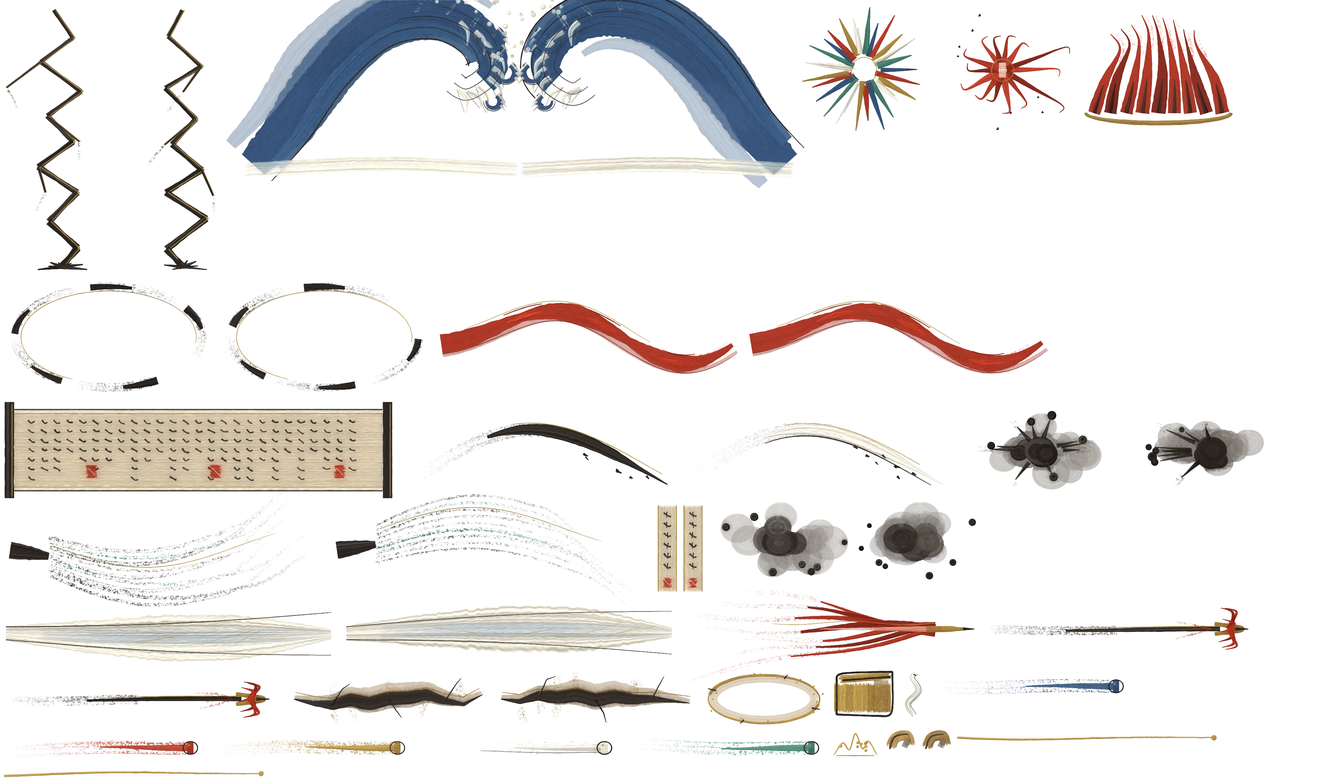
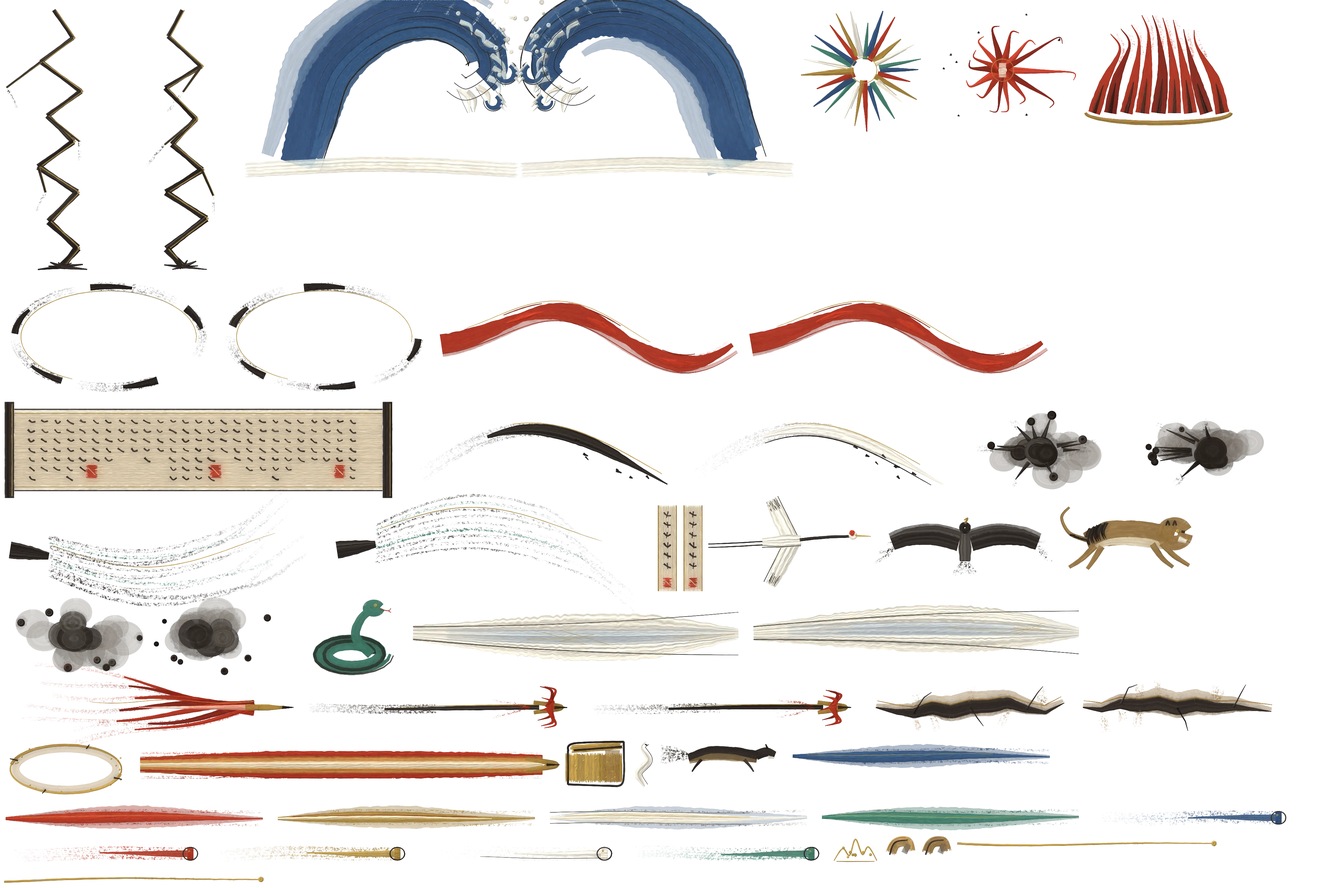
Muye: the ten true-form feats repainted
Mount Tai for 黄飞虎, the investiture list for 姜子牙, the turning wheel of
eight weapons for 哪吒, six ink beasts for 杨戬, the lance of light for 黄天化,
five beams for 邓婵玉, a chasm for 土行孙 and a wave for 龙吉, each with the
general in view and inside the coverage budget.

diff --git a/world/src/muye2/art/fx/gl/gods.js b/world/src/muye2/art/fx/gl/gods.js
@@ -32,6 +32,8 @@ export function createGods(ctx, W = createWonders(), { ink = null, kick = () => 
   const sheet = (n) => (n.charCodeAt(0) === 103 ? GW : W0);
   // 泰山 (gen/tai.gen.mjs): a picture of its own, painted with the field's ink-wash engine; its foot sits at TAI_FOOT of its height
   let TAI = null; const TAI_FOOT = 868 / 896;
+  // 地裂 (gen/chasm.gen.mjs): the earth opened, painted with the same engine; centred, 520 units across at 1.4 px a unit
+  let CHASM = null; fetch(new URL('../baked/gchasm.webp', import.meta.url).href).then((r) => r.blob()).then((b) => createImageBitmap(b)).then((bm) => { CHASM = bm; if (ctx.prewarm) ctx.prewarm(bm); warm.push(bm); }).catch((e) => console.warn('gods: 地裂 did not load', e));
   fetch(new URL('../baked/gtai.webp', import.meta.url).href).then((r) => r.blob()).then((b) => createImageBitmap(b)).then((bm) => { TAI = bm; if (ctx.prewarm) ctx.prewarm(bm); warm.push(bm); }).catch((e) => console.warn('gods: 泰山 did not load', e));
   W = { draw: (c, n, ...r) => sheet(n).draw(c, n, ...r), cell: (n) => sheet(n).cell(n), get ready() { return W0.ready && GW.ready; } };
   let clock = 0, G = null, FX = null, FXload = null;
@@ -112,8 +114,8 @@ export function createGods(ctx, W = createWonders(), { ink = null, kick = () => 
       for (let j = 0; j < 12; j++) { const ang = (j / 12) * TAU + 0.3, d = 300 * (1 - ease(q)) * V.z; W.draw(c, `wray_${j % 2}`, X + Math.cos(ang) * d, Y + Math.sin(ang) * d * 0.8, ang + Math.PI / 2, 0.3 * V.z, 0.35 * V.z, Math.sin(Math.PI * q) * veil(V, X, Y)); } } }
   // 土行孙: no image, the earth itself opens round him and stands up
   function earthStage(c, V, o, t, gx, gy, a) { const z = V.z, R = 260, open = ease(clamp(t / 0.4)), close = clamp((t - T_HOLD) / (T_END - T_HOLD));
-    for (let j = 0; j < 6; j++) { const b = (j / 6) * TAU + 0.2, X0 = V.sx(gx + Math.cos(b) * 40), Y0 = V.sy(gy + Math.sin(b) * 40), X1 = V.sx(gx + Math.cos(b) * R), Y1 = V.sy(gy + Math.sin(b) * R); along(c, `wcrack_${j % 2}`, X0, Y0, X1, Y1, 0.5 * z, a, 0, open); }
-    W.draw(c, `wscorch_${o.v || 0}`, V.sx(gx), V.sy(gy), 0, (R / 70) * z * open, (R / 90) * z * open, a * 0.8);
+    if (CHASM) { const w = 520 * (R / 158) * z * (0.5 + 0.5 * open) * (1 - 0.4 * close), h = w * CHASM.height / CHASM.width, X = V.sx(gx), Y = V.sy(gy) + 10 * z; ctx.setTransform(1, 0, 0, 1, X - w / 2, Y - h / 2); ctx.globalAlpha = a * (1 - close) * Math.min(1, open * 2); ctx.drawImage(CHASM, 0, 0, CHASM.width, CHASM.height, 0, 0, w, h); ctx.setTransform(1, 0, 0, 1, 0, 0); ctx.globalAlpha = 1; }      // the earth opens round him (gen/chasm.gen.mjs)
+
     for (let j = 0; j < 8; j++) { const b = (j / 8) * TAU, s = clamp((t - (j % 3) * 0.06) / 1.2), X = V.sx(gx + Math.cos(b) * R * 0.75), Y = V.sy(gy + Math.sin(b) * R * 0.75) - 40 * s * z;
       if (s > 0 && s < 1) W.draw(c, `wdust_${j % 2}`, X, Y, j, (0.8 + 1.4 * s) * z, (0.7 + 1 * s) * z, a * (1 - s) * (1 - close)); } }
 
@@ -121,8 +123,8 @@ export function createGods(ctx, W = createWonders(), { ink = null, kick = () => 
   // Each in three beats: GATHER (his own pose and a brief build of strokes at him, about 0.2 s), STRIKE (the god's blow
   // laid on the foes at full size, a held frame and a shock when it lands), TRACE (pools, rifts, rings left on the ground
   // under the figures, fading over a second and more). What stands over the figures is the strike alone, and only briefly.
-  const STRIKE = { arc: 0.34, hound: 0.22, line: 0.24, bindOne: 0.2, cone: 0.22, charge: 0.3, command: 0.74, snort: 0.2, vase: 0.5, nail: 0.18 };
-  const LIFE = { arc: 2.4, hound: 2.2, line: 2.2, bindOne: 2.6, cone: 1.8, charge: 2.4, command: 2.4, snort: 1.8, vase: 2.4, nail: 2.2 };
+  const STRIKE = { arc: 0.34, hound: 0.24, line: 0.24, bindOne: 0.2, cone: 0.22, charge: 0.3, command: 0.74, snort: 0.2, vase: 0.5, nail: 0.18 };
+  const LIFE = { arc: 2.4, hound: 2.4, line: 2.2, bindOne: 2.6, cone: 1.8, charge: 2.4, command: 2.4, snort: 1.8, vase: 2.4, nail: 2.2 };
   const NEZHA8 = ['gspear_0', 'gsword_0', 'wring', 'gbrick', 'gspear_1', 'gsword_1', 'gsilk', 'gcage'];
   function picks(x, y, R, n, cone = null) { const fs = (G && G.foes) || [], out = [];
     for (const f of fs) { if (f.state === 'dead') continue; const dx = f.x - x, dy = f.y - y, d = Math.hypot(dx, dy); if (d > R) continue;
@@ -137,8 +139,11 @@ export function createGods(ctx, W = createWonders(), { ink = null, kick = () => 
     if (o.shape === 'arc') { const fs = (G && G.foes) || [], h = G && G.hero; o.picks = [];      // a wheel round him: in each of eight directions the nearest foe within 300, else the ground 240 out that way
       for (let k = 0; k < 8; k++) { const b = ((k + 0.5) / 8) * TAU; let best = null, bd = 1e9; for (const f of fs) { if (f.state === 'dead') continue; const dx = f.x - gx, dy = f.y - gy, d = Math.hypot(dx, dy); if (d > 300 || d < 60) continue; if (h && Math.hypot(f.x - h.x, f.y - h.y) < 110) continue; let da = Math.atan2(dy, dx) - b; da = Math.atan2(Math.sin(da), Math.cos(da)); if (Math.abs(da) > TAU / 16) continue; if (d < bd) { bd = d; best = f; } }
         o.picks.push(best ? { x: best.x, y: best.y, id: best.id } : { x: gx + Math.cos(b) * 240, y: gy + Math.sin(b) * 240 }); } }
-    if (o.shape === 'hound') { o.picks = (o.targets || []).slice(); for (const p of spread(gx, gy, 560, 6)) if (o.picks.length < 6) o.picks.push(p); }
+    if (o.shape === 'hound') o.picks = spread(gx, gy, 600, 6);      // six changes out to six directions round him
     if (o.shape === 'cone') o.picks = picks(gx, gy, o.radius || 440, 5, [o.dir || 0, ((o.angle || 130) * Math.PI) / 360]);
+    if (o.shape === 'vase') { const pr = (o.targets || []).find((p) => p.pour && (!G || !G.hero || Math.hypot(p.x - G.hero.x, p.y - G.hero.y) >= 380)), fs = (G && G.foes) || [], h = G && G.hero; let best = pr || null, bn = -1;
+      if (!best) for (const f of fs) { if (f.state === 'dead' || Math.hypot(f.x - gx, f.y - gy) > 760 || (h && (Math.hypot(f.x - h.x, f.y - h.y) < 380 || Math.hypot(f.x - h.x, f.y - h.y) > 600))) continue; let n = 0; for (const g2 of fs) if (g2.state !== 'dead' && Math.abs(g2.x - f.x) < 110 && Math.abs(g2.y - f.y) < 90) n++; if (n > bn) { bn = n; best = f; } }
+      o.wave = best ? { x: best.x, y: best.y } : null; }      // the great wave: the first group it pours on, else the thickest group in reach, away from the hero
     if (o.shape === 'command') { const n = o.nail; o.at2 = n ? { x: n.x, y: n.y, id: n.id } : (picks(gx, gy, 600, 1)[0] || { x: gx + 300, y: gy }); } }
   const at = (p) => { const f = foeOf(p.id); return f && f.state !== 'dead' ? f : p; };
   // the held blow: once, as the strike lands
@@ -159,33 +164,37 @@ export function createGods(ctx, W = createWonders(), { ink = null, kick = () => 
       const gather = clamp(t / T0), [GX, GY] = P(gx, gy, 60);
       GCL = ground ? null : [GX, GY - 10 * z, z];
       switch (o.shape) {
-        case 'arc': {          // 哪吒 三头八臂: the eight weapons come into his eight hands one by one, turning round him; then in the same
-          // turning order each goes out to a foe in its own direction: two fire-tipped spears, the two swords, the ring, the gold
-          // brick, the sash and the fire cage. He stays in the middle of it, clear.
-          const ps = o.picks.length ? o.picks : [{ x: gx + 200, y: gy }], RR = 150 * z, ringAt = (k, tt) => { const b = ((k + 0.5) / 8) * TAU + 0.5 * clamp(tt / 0.6); return [GX + Math.cos(b) * RR, GY - 10 * z + Math.sin(b) * RR * 0.72, b]; };
-          if (ground) { land(o, t, 10); for (let k = 0; k < 8; k++) { const p = at(ps[k % ps.length]); shockAt(c, V, p.x, p.y, T0 + k * 0.05 + 0.12, t, k === 7 ? 0.9 : 0.55); } break; }
-          for (let k = 0; k < 8; k++) { const n = NEZHA8[k], t0 = (k / 8) * T0 * 0.85, tl = T0 + k * 0.05; if (t < t0) continue;
-            const [RX, RY, b] = ringAt(k, t), shown = clamp((t - t0) / 0.06);
-            if (t < tl) {      // held in his hand: the weapon small, pointing out from him
-              const icon = n === 'wring' ? ['wringt_0', 0, 1, 0.5] : n === 'gsilk' ? ['gsilk_0', 0.55, 1, 0.45] : n === 'gcage' ? ['gcage', 0, 1, 0.24] : n === 'gbrick' ? ['gbrick', 0, 1, 0.4] : n.startsWith('gsword') ? [n, 0.4, 1, 0.42] : [n, 0.5, 1, 0.45];
-              W.draw(c, icon[0], RX, RY, n === 'gcage' || n === 'gbrick' ? 0 : b, icon[3] * z, icon[3] * z, shown * veil(V, RX, RY), icon[1], icon[2]); continue; }      // (in his own hands: not thinned round him)
-            const p = at(ps[k % ps.length]), tk = t - tl, q = clamp(tk / 0.12), out = 1 - clamp((tk - 0.5) / 0.25); if (out <= 0) continue;
-            const [X1, Y1] = P(p.x, p.y, 40), ang = Math.atan2(Y1 - RY, X1 - RX), len = Math.hypot(X1 - RX, Y1 - RY);
-            if (n === 'gspear_0' || n === 'gspear_1') { const C = W.cell(n), k1 = (len + 40 * z) / C[7]; D(c, n, RX, RY, ang, k1, 0.9 * z, out * lineVeil(V, RX, RY, X1, Y1), 0, q); }
-            else if (n === 'gsword_0' || n === 'gsword_1') D(c, n, X1 - Math.cos(ang) * 260 * z, Y1 - Math.sin(ang) * 260 * z + 90 * z, ang, 0.85 * z, 0.85 * z, out * veil(V, X1, Y1), Math.max(0, q - 0.5), q);
-            else if (n === 'wring') { const X = RX + (X1 - RX) * q, Y = RY + (Y1 - RY) * q; D(c, 'wring_0', X, Y, tk * 20, 0.7 * z, 0.7 * z, out * veil(V, X, Y)); if (q < 1) { const C = W.cell('wring_trail_0'), L2 = Math.hypot(X - RX, Y - RY); if (C && L2 > 4) D(c, 'wring_trail_0', X, Y, ang + Math.PI, L2 / C[7], 0.9 * z, out * veil(V, X, Y)); } }
-            else if (n === 'gsilk') { const C = W.cell('gsilk_0'), k1 = len / C[7]; D(c, 'gsilk_0', RX, RY, ang, k1, 0.8 * z, out * lineVeil(V, RX, RY, X1, Y1), 0, q); }
-            else if (n === 'gbrick') { const Y = Y1 - 380 * z * (1 - q * q); D(c, 'gbrick', X1, Y + 30 * z, 0.1, 0.5 * z, 0.5 * z, out * veil(V, X1, Y)); }
-            else if (n === 'gcage') { const s = clamp(tk / 0.1), up = 1 - clamp((tk - 0.2) / 0.35); D(c, 'gcage', X1, Y1 + 50 * z, 0, 0.6 * z, 0.6 * z * s, Math.min(out + 0.4, 1) * up * boxVeil(V, X1 - 120 * z, Y1 - 120 * z * s, X1 + 120 * z, Y1 + 50 * z)); } }
+        case 'arc': {          // 哪吒 三头八臂: one composed turn. The eight weapons come into his hands round him; the wheel they make opens
+          // out over the foes and turns once, the sash a red ring through them, fire dragged behind each; it lands, and closes back.
+          const WR = 230, open = ease(clamp((t - T0) / 0.14)), close = clamp((t - T0 - 0.7) / 0.25), spin = 1.2 * ease(clamp((t - T0) / 0.5)), r = (60 + (WR - 60) * open) * (1 - 0.8 * close);
+          const wAt = (k, extra = 0) => { const b = ((k + 0.5) / 8) * TAU + spin + extra; return [gx + Math.cos(b) * r, gy + Math.sin(b) * r, b]; };
+          if (ground) { land(o, t, 12);
+            // the sash: a red ring through the eight weapons, drawn under the figures, laid as the wheel opens
+            if (t > T0 - 0.05 && close < 1) ribbon(c, 'gsilk_0', (q) => P(gx + Math.cos(q * TAU + spin) * r, gy + Math.sin(q * TAU + spin) * r, 30), 0.55 * z, (1 - close) * Math.min(1, (t - T0 + 0.05) / 0.1), 0, 1, 24, null);
+            for (let k = 0; k < 8; k++) { const [x, y] = wAt(k); if (t > T0 + 0.5 && !o['s' + k]) o['s' + k] = [x, y]; if (o['s' + k]) shockAt(c, V, o['s' + k][0], o['s' + k][1], T0 + 0.5, t, 0.65); }
+            break; }
+          for (let k = 0; k < 8; k++) { const n = NEZHA8[k], t0 = (k / 8) * T0 * 0.85; if (t < t0) continue;
+            const shown = clamp((t - t0) / 0.06), [x, y, b] = wAt(k), [X, Y] = P(x, y, 50), big = t < T0 ? 0.32 : 0.32 + 0.3 * open * (1 - close), a = shown * (1 - close), rot = b + Math.PI / 2;
+            // fire dragged behind each weapon as the wheel turns
+            if (t > T0 && close < 1) ribbon(c, 'wfanfire_0', (q) => { const [x2, y2] = wAt(k, -0.5 * (1 - q)); return P(x2, y2, 50); }, 0.3 * z, 0.5 * (1 - close) * open, 0, 1, 6, V);
+            if (n === 'wring') W.draw(c, 'wringt_0', X, Y, t * 8, big * 1.4 * z, big * 1.4 * z, a * veil(V, X, Y));
+            else if (n === 'gcage') W.draw(c, 'gcage', X, Y + 30 * z, 0, big * 0.6 * z, big * 0.6 * z, a * veil(V, X, Y));
+            else if (n === 'gbrick') W.draw(c, 'gbrick', X, Y + 20 * z, rot * 0.1, big * 0.9 * z, big * 0.9 * z, a * veil(V, X, Y));
+            else if (n === 'gsilk') W.draw(c, 'gsilk_0', X, Y, rot, big * 0.6 * z, big * 0.8 * z, a * veil(V, X, Y), 0.4, 1);
+            else W.draw(c, n, X - Math.cos(b) * 60 * big * z, Y - Math.sin(b) * 40 * big * z, b, big * 0.7 * z, big * 0.9 * z, a * veil(V, X, Y), n.startsWith('gsword') ? 0.3 : 0.45, 1); }
           break; }
-        case 'hound': {        // 杨戬 七十二变: a flung splash of ink breaks into six hounds; each bite pools
-          const ps = o.picks.length ? o.picks : [{ x: gx + 300, y: gy }];
-          if (ground) { land(o, t, 7); const s = clamp(t / 0.18); D(c, `gsplash_${o.v}`, V.sx(gx), V.sy(gy), 0, 0.7 * z * s, 0.7 * z * s * V.KY / 0.55, 1 - clamp((t - 0.3) / 0.6));
-            for (let k = 0; k < 6; k++) { const p = at(ps[k % ps.length]), tk = t - T0 - k * 0.04, q = clamp(tk / 0.3); if (tk < 0) continue; const [X0, Y0] = P(gx, gy), [X1, Y1] = P(p.x, p.y);
-              along(c, `wtoll_${k % 2}`, X0, Y0, X1, Y1, 1.6 * z, 0.7 * (1 - clamp((tk - 0.4) / 1.2)), Math.max(0, q - 0.5), q, null); shockAt(c, V, p.x, p.y, T0 + k * 0.04 + 0.3, t, 0.8); } break; }
-          for (let k = 0; k < 6; k++) { const p = at(ps[k % ps.length]), tk = t - T0 - k * 0.04, q = clamp(tk / 0.3); if (tk < 0 || q >= 1) continue;
-            const x = gx + (p.x - gx) * ease(q), y = gy + (p.y - gy) * ease(q), [X, Y] = P(x, y, 20 + 60 * Math.sin(Math.PI * q)), dir = p.x < gx ? -1 : 1;
-            D(c, `whound_${k % 2}`, X, Y, Math.atan2((p.y - gy) * V.KY, Math.abs(p.x - gx)) * 0.4 * dir, dir * 1.05 * z, 1.05 * z, Math.min(1, tk / 0.05) * veil(V, X, Y)); }
+        case 'hound': {        // 杨戬 七十二变: six changes: a hound, a tiger, a hawk, a marten, a crane and a serpent leap out of him to six
+          // foes in a few wet strokes each, strike, and leap back into him
+          const ps = o.picks.length ? o.picks : [{ x: gx + 300, y: gy }], SIX = ['whound_0', 'gtiger', 'ghawk', 'gmarten', 'gcrane', 'gserpent'], FLY = { ghawk: 1, gcrane: 1 };
+          if (ground) { land(o, t, 8); const s = clamp(t / 0.18); D(c, `gsplash_${o.v}`, V.sx(gx), V.sy(gy), 0, 0.6 * z * s, 0.6 * z * s * V.KY / 0.55, 1 - clamp((t - 0.3) / 0.6));
+            for (let k = 0; k < 6; k++) { const p = at(ps[k % ps.length]); shockAt(c, V, p.x, p.y, T0 + 0.3 + k * 0.03, t, 0.7); } break; }
+          for (let k = 0; k < 6; k++) { const n = SIX[k], p = at(ps[k % ps.length]), tk = t - k * 0.03, b = (k / 6) * TAU;
+            // out of him (0 to T0), the leap (T0 to T0 + 0.3), the strike held (to + 0.5), and back into him (+ 0.5 to + 0.85)
+            let x, y, lift, sc, a, dir;
+            if (tk < T0) { const q = ease(clamp(tk / T0)); x = gx + Math.cos(b) * 70 * q; y = gy + Math.sin(b) * 45 * q; lift = 70 + 40 * q; sc = 0.25 + 0.3 * q; a = q; dir = Math.cos(b) < 0 ? -1 : 1; }
+            else if (tk < T0 + 0.5) { const q = ease(clamp((tk - T0) / 0.3)), x0 = gx + Math.cos(b) * 70, y0 = gy + Math.sin(b) * 45; x = x0 + (p.x - x0) * q; y = y0 + (p.y - y0) * q; lift = (FLY[n] ? 150 : 90) * Math.sin(Math.PI * q) + 30 * (1 - q) + 20; sc = 0.55 + 0.25 * Math.sin(Math.PI * q); a = 1; dir = p.x < x0 ? -1 : 1; }
+            else { const q = ease(clamp((tk - T0 - 0.5) / 0.35)); x = p.x + (gx - p.x) * q; y = p.y + (gy - p.y) * q; lift = 20 + (FLY[n] ? 120 : 60) * Math.sin(Math.PI * q); sc = 0.55 * (1 - 0.7 * q); a = 1 - q * q; dir = gx < p.x ? -1 : 1; }
+            if (a <= 0.01) continue; const [X, Y] = P(x, y, lift); const kk = sc * (n === 'gserpent' ? 0.9 : n === 'ghawk' ? 0.95 : 1.3) * z; W.draw(c, n, X, Y, 0, dir * kk, kk, a * veil(V, X, Y) * (tk < T0 ? 1 : gclear(X, Y))); }      // once out of him, thinned round him so he stays in view
           break; }
         case 'line': {         // 雷震子: the wings beat (two great winds), lightning down the line, the staff splits the ground
           const L = o.length || 380, d = o.dir || 0, pt = (f) => [o.x + Math.cos(d) * L * f, o.y + Math.sin(d) * L * f], end = o.smash || { x: pt(1)[0], y: pt(1)[1] };
@@ -198,23 +207,28 @@ export function createGods(ctx, W = createWonders(), { ink = null, kick = () => 
         case 'bindOne': {      // 土行孙 地裂: under each group the earth tears open; clods fly; the rifts lie there while the ground holds
           const qs = o.quake || [];
           if (ground) { land(o, t, 12); for (const q of qs) { const R = (q.radius || 125) * 1.35, dark = clamp(t / T0);
+              // the earth opens under them: fast, a hair overshot, held while the ground holds them, then it closes
+              if (CHASM && t > T0 - 0.02) { const s = clamp((t - T0 + 0.02) / 0.14), open = s < 1 ? ease(s) * 1.06 : 1.06 - 0.06 * clamp((t - T0 - 0.12) / 0.1), close = 1 - clamp((t - 1.9) / 0.7);
+                const w = (520 * (q.radius || 125) / 190) * z * open * (0.6 + 0.4 * close), h = w * CHASM.height / CHASM.width, [X, Y] = P(q.x, q.y);
+                ctx.setTransform(1, 0, 0, 1, X - w / 2, Y - h / 2); ctx.globalAlpha = Math.min(1, s * 3) * close; ctx.drawImage(CHASM, 0, 0, CHASM.width, CHASM.height, 0, 0, w, h); ctx.setTransform(1, 0, 0, 1, 0, 0); ctx.globalAlpha = 1; }
               shockAt(c, V, q.x, q.y, T0, t, 1.3);
-              for (let k = 0; k < 3; k++) { const b = (k / 3) * TAU + o.v + 0.5 + q.x * 0.01, [X0, Y0] = P(q.x - Math.cos(b) * R * 0.15, q.y - Math.sin(b) * R * 0.15), [X1, Y1] = P(q.x + Math.cos(b) * R * 0.85, q.y + Math.sin(b) * R * 0.85);
-                along(c, `grift_${k % 2}`, X0, Y0, X1, Y1, 0.26 * z, 0.8 * dark * (1 - clamp((t - 1.6) / 1)), 0, clamp((t - T0 + 0.05) / 0.1), null); }
               if (t < T0) for (let k = 0; k < 3; k++) D(c, `wdust_${k % 2}`, ...P(q.x + (k - 1) * 50, q.y + Math.sin(t * 60 + k) * 4), 0, 0.9 * z, 0.7 * z, gather * 0.7); }
             break; }
           for (const q of qs) for (let k = 0; k < 5; k++) { const tk = t - T0 - (k % 3) * 0.03; if (tk < 0 || tk > 0.7) continue; const b = (k / 5) * TAU + 0.3, s2 = tk / 0.7, r = (30 + 90 * s2) * (q.radius || 125) / 125,      // the earth thrown up: dust boiling out of the rifts
               [X, Y] = P(q.x + Math.cos(b) * r, q.y + Math.sin(b) * r * 0.6, 60 * s2); D(c, `wdust_${k % 2}`, X, Y, k, (0.9 + 1.2 * s2) * z, (0.8 + 0.9 * s2) * z, (1 - s2) * 0.9 * veil(V, X, Y)); }
           break; }
-        case 'cone': {         // 邓婵玉 五光齐放: five stones lit in her hand; five comets, each its own colour, burst on five faces
-          const ps = o.picks.length ? o.picks : [{ x: gx + Math.cos(o.dir || 0) * 300, y: gy + Math.sin(o.dir || 0) * 300 }], R = o.radius || 440, ang = ((o.angle || 130) * Math.PI) / 180, d = o.dir || 0;
-          if (ground) { land(o, t, 8); for (let k = 0; k < 5; k++) { const p = at(ps[k % ps.length]); shockAt(c, V, p.x, p.y, T0 + 0.16 + k * 0.03, t, 0.7); }
-            if (t > T0) for (let k = 0; k < 10; k++) { const b = d - ang / 2 + (ang * (k + 0.5)) / 10; along(c, `wlight5_${k % 5}`, ...P(gx, gy), ...P(gx + Math.cos(b) * R, gy + Math.sin(b) * R), 0.9 * z, 0.4 * (1 - clamp((t - T0) / 1.2)), 0, clamp((t - T0) / 0.2), null); }
+        case 'cone': {         // 邓婵玉 五光齐放: five stones lit in her hand, then five broad bands of mineral light laid hard across the cone,
+          // one pigment each, and every face in it blinded
+          const ps = o.picks.length ? o.picks : [{ x: gx + Math.cos(o.dir || 0) * 300, y: gy + Math.sin(o.dir || 0) * 300 }], R = o.radius || 440, ang = ((o.angle || 130) * Math.PI) / 180, d = o.dir || 0, [HX, HY] = P(gx, gy, 52);
+          if (ground) { land(o, t, 10); for (let k = 0; k < 5; k++) { const p = at(ps[k % ps.length]); shockAt(c, V, p.x, p.y, T0 + 0.1 + k * 0.03, t, 0.6); }
+            if (t > T0) for (let k = 0; k < 10; k++) { const b = d - ang / 2 + (ang * (k + 0.5)) / 10; along(c, `wlight5_${k % 5}`, ...P(gx, gy), ...P(gx + Math.cos(b) * R, gy + Math.sin(b) * R), 0.9 * z, 0.4 * (1 - clamp((t - T0) / 1.2)), 0, 1, null); }
             break; }
-          if (t < T0) { for (let k = 0; k < 5; k++) { const b = (k / 5) * TAU + t * 10, X = GX + Math.cos(b) * 26 * z, Y = GY + 10 * z + Math.sin(b) * 18 * z; D(c, `gstone_${k}`, X, Y, b + Math.PI / 2, 0.35 * z, 0.35 * z, gather * veil(V, X, Y), 0.85, 1); } break; }
-          for (let k = 0; k < 5; k++) { const p = at(ps[k % ps.length]), tk = t - T0 - k * 0.03, q = clamp(tk / 0.16); if (tk < 0) continue; const [X1, Y1] = P(p.x, p.y, 50), ang2 = Math.atan2(Y1 - GY, X1 - GX), X = GX + (X1 - GX) * q, Y = GY + (Y1 - GY) * q;
-            if (q < 1) D(c, `gstone_${k}`, X, Y, ang2, 0.9 * z, 0.9 * z, veil(V, X, Y), 1 - Math.min(1, q * 1.5 + 0.1), 1);
-            else if (tk < 0.42) { const s = (tk - 0.16) / 0.26; D(c, 'gstar5', X1, Y1, k, (0.45 + 0.5 * ease(s)) * z, (0.45 + 0.5 * ease(s)) * z, (1 - s) * veil(V, X1, Y1)); } }
+          if (t < T0) { for (let k = 0; k < 5; k++) { const b = (k / 5) * TAU + t * 10, X = HX + Math.cos(b) * 26 * z, Y = HY + 10 * z + Math.sin(b) * 18 * z; D(c, `gstone_${k}`, X, Y, b + Math.PI / 2, 0.35 * z, 0.35 * z, gather * veil(V, X, Y), 0.85, 1); } break; }
+          // the five bands: laid one after another across the cone, held, then they go
+          for (let k = 0; k < 5; k++) { const tk = t - T0 - k * 0.035; if (tk < 0 || tk > 0.7) continue; const b = d - ang / 2 + (ang * (k + 0.5)) / 5, [X1, Y1] = P(gx + Math.cos(b) * R, gy + Math.sin(b) * R, 20), C = W.cell(`gband_${k}`), len = Math.hypot(X1 - HX, Y1 - HY), rot = Math.atan2(Y1 - HY, X1 - HX);
+            along(c, `gband_${k}`, HX, HY, X1, Y1, 1.1 * z, 1 - clamp((tk - 0.36) / 0.24), 0, clamp(tk / 0.07), V); }      // narrow beams of light, a fixed width; the glow round each is the cell's own
+          // every face in the cone: the five lights burst on it
+          for (let k = 0; k < 5; k++) { const p = at(ps[k % ps.length]), tk = t - T0 - 0.1 - k * 0.03; if (tk < 0 || tk > 0.45) continue; const [X, Y] = P(p.x, p.y, 50), s = tk / 0.45; D(c, 'gstar5', X, Y, k, (0.3 + 0.3 * ease(s)) * z, (0.3 + 0.3 * ease(s)) * z, (1 - s) * veil(V, X, Y)); }
           break; }
         case 'charge': {       // 黄飞虎 武成王: the ox charges; at its end the mountain of 泰山 comes down on them; every squad takes his ground
           const L = o.length || 380, d = o.dir || 0, T = o.time || 0.5, wd = o.width || 70, ex = o.x + Math.cos(d) * (L + 60), ey = o.y + Math.sin(d) * (L + 60), TM = T + 0.05;
@@ -267,22 +281,26 @@ export function createGods(ctx, W = createWonders(), { ink = null, kick = () => 
         case 'vase': {         // 龙吉 四海归瓶: the vase rises and drinks every shot; then the seas break on them as waves
           const [VX, VY] = P(gx, gy, 170), up = ease(clamp(t / 0.25)), n = Math.min(10, o.swallowed || 0), pours = (o.targets || []).filter((p) => p.pour).slice(0, 4), tgt = pours.length ? pours : (o.targets || []).slice(0, 1);
           if (ground) { land(o, t, 9); const rr = 60 + 120 * ease(clamp(t / 0.5)); for (let j = 0; j < 2; j++) ribbon(c, `wwave_${j}`, (q) => P(gx + Math.cos(q * TAU + j * 2) * rr * (1 + 0.15 * j), gy + Math.sin(q * TAU + j * 2) * rr * (1 + 0.15 * j)), 0.4 * z, 1 - clamp((t - 0.8) / 0.6), 0, clamp(t / 0.35), 20, null);
-            for (const p of tgt) { shockAt(c, V, p.x, p.y, T0 + 0.2, t, 1.2); if (t > T0 + 0.25) W.draw(c, 'whalo_water', ...P(p.x, p.y), 0, 0.6 * z, 0.6 * z * V.KY, 0.6 * (1 - clamp((t - 1.2) / 1))); } break; }
+            for (const p of (o.wave ? [o.wave, ...pours.slice(1)] : tgt)) { shockAt(c, V, p.x, p.y, T0 + 0.2, t, 1.2); if (t > T0 + 0.25) W.draw(c, 'whalo_water', ...P(p.x, p.y), 0, 0.6 * z, 0.6 * z * V.KY, 0.6 * (1 - clamp((t - 1.2) / 1))); } break; }
           if (t < 1.1) D(c, 'wvase', VX, VY, Math.sin(clock * 3) * 0.05, 0.7 * z * up, 0.7 * z * up, (1 - clamp((t - 0.85) / 0.25)) * veil(V, VX, VY));
           if (t > 0.1 && t < 0.55) for (let k = 0; k < Math.max(n, 3); k++) { const b = (k / Math.max(3, n)) * TAU + 0.4, [X0, Y0] = P(gx + Math.cos(b) * 560, gy + Math.sin(b) * 380, 60); ribbon(c, `wwave_${k % 2}`, (s) => { const w = 1 - s; return [X0 + (VX - X0) * s + Math.sin(s * 6 + k) * 30 * w * z, Y0 + (VY - 30 * z - Y0) * s]; }, 0.3 * z, (n ? 1 : 0.5) * (1 - clamp((t - 0.4) / 0.15)), clamp((t - 0.25) / 0.3), clamp((t - 0.1) / 0.25), 10, V); }
           // one great wave, on the first group: several overlapping read as arches
-          for (const p of tgt.slice(0, 1)) { const s = clamp((t - T0 + 0.05) / 0.25); if (s <= 0 || t > T0 + 0.7) continue; const [X, Y] = P(p.x, p.y, 0), fade = 1 - clamp((t - T0 - 0.35) / 0.35); const k = (pours.length ? 0.8 : 0.55) * z * (0.55 + 0.45 * ease(s)); D(c, `gwave_${(p.x | 0) & 1}`, X, Y + 20 * z - (1 - ease(s)) * 60 * z, 0, k, k, Math.min(1, s * 2) * fade * boxVeil(V, X - 320 * k, Y - 380 * k, X + 320 * k, Y + 30 * z)); }
+          for (const p of o.wave ? [o.wave] : []) { const s = clamp((t - T0 + 0.05) / 0.25); if (s <= 0 || t > T0 + 0.7) continue; const [X0, Y] = P(p.x, p.y, 0), fade = 1 - clamp((t - T0 - 0.35) / 0.35), k = 0.65 * z * (0.55 + 0.45 * ease(s)), kf = 0.65 * z, H = V.hero, cw = ctx.canvas.width;
+            // it breaks beside the hero, never over him: pushed out sideways until its whole outline clears him, rolling away from him
+            let X = X0; if (H && Math.abs(X - H[0]) < 320 * kf + 150 * z) X = H[0] + (X >= H[0] ? 1 : -1) * (320 * kf + 150 * z); X = Math.max(320 * kf, Math.min(cw - 320 * kf, X)); const Yw = Math.max(380 * kf + ctx.canvas.height * 0.04, Math.min(ctx.canvas.height * 0.97, Y));
+            D(c, `gwave_${X >= (H ? H[0] : 0) ? 0 : 1}`, X, Yw + 20 * z - (1 - ease(s)) * 60 * z, 0, k, k, Math.min(1, s * 2) * fade * boxVeil(V, X - 320 * k, Yw - 380 * k, X + 320 * k, Yw + 30 * z)); }
           break; }
-        case 'nail': {         // 黄天化 华光穿心: the light gathers in his hand; three nails one after another through the strongest
-          const L = o.length || 700, d = o.dir || 0, ts = o.targets || [], [X0, Y0] = P(gx, gy, 55);
-          if (ground) { land(o, t, 10); for (let k = 0; k < (o.count || 3); k++) { const p = at(ts[Math.min(k, ts.length - 1)] || { x: gx + Math.cos(d) * L * 0.6, y: gy + Math.sin(d) * L * 0.6 }); shockAt(c, V, p.x, p.y, T0 + k * 0.16 + 0.1, t, 0.9);
-              if (t > T0 + k * 0.16 + 0.12) along(c, `wthrust_${k % 2}`, ...P(gx, gy), ...P(p.x + (p.x - gx) * 0.3, p.y + (p.y - gy) * 0.3), 0.45 * z, 0.6 * (1 - clamp((t - 1) / 1)), 0, 1, null); } break; }
-          if (t < T0 + 0.1) D(c, 'gflare', X0, Y0, t * 4, (0.25 + 0.45 * gather) * z, (0.25 + 0.45 * gather) * z, Math.min(1, gather * 1.5) * (1 - clamp((t - T0) / 0.1)) * veil(V, X0, Y0));
-          for (let k = 0; k < (o.count || 3); k++) { const tk = t - T0 - k * 0.16, q = clamp(tk / 0.24); if (tk < 0) continue; const p = at(ts[Math.min(k, ts.length - 1)] || { x: gx + Math.cos(d) * L * 0.6, y: gy + Math.sin(d) * L * 0.6 }), [XT, YT] = P(p.x, p.y, 45);
-            // through the heart and a little beyond, not out to the end of its reach (which is often off the screen)
-            const dd = Math.hypot(p.x - gx, p.y - gy) || 1, [XE, YE] = P(p.x + ((p.x - gx) / dd) * 220, p.y + ((p.y - gy) / dd) * 220, 45);
-            if (q < 1) { const X = X0 + (XE - X0) * q, Y = Y0 + (YE - Y0) * q, ra = Math.atan2(YE - Y0, XE - X0); D(c, 'gnail', X, Y, ra, 1.15 * z, 1.15 * z, lineVeil(V, X, Y, X - Math.cos(ra) * 560 * z, Y - Math.sin(ra) * 560 * z)); }
-            const through = Math.hypot(XT - X0, YT - Y0) / (Math.hypot(XE - X0, YE - Y0) || 1), s = tk - through * 0.24; if (s > 0 && s < 0.3) D(c, 'gflare', XT, YT, d, (0.5 + 0.5 * ease(s / 0.3)) * z, (0.5 + 0.5 * ease(s / 0.3)) * z, (1 - s / 0.3) * veil(V, XT, YT)); }
+        case 'nail': {         // 黄天化 华光穿心: the light gathers in his hand; then one hard lance of light, white-hot in matte gold, through
+          // the heart of the strongest, struck three times (the three nails), each time a burst of flame at the heart
+          const ts = o.targets || [], d = o.dir || 0, [X0, Y0] = P(gx, gy, 55), p = at(ts[0] || { x: gx + Math.cos(d) * 420, y: gy + Math.sin(d) * 420 }), dd = Math.hypot(p.x - gx, p.y - gy) || 1;
+          // through the heart and on: at least 650 long, so it reads even when he stands by the hero and his target is near
+          const ux = (p.x - gx) / dd, uy = (p.y - gy) / dd, past = Math.max(300, 650 - dd), [XT, YT] = P(p.x, p.y, 45), [XE, YE] = P(p.x + ux * past, p.y + uy * past, 45), [XS, YS] = P(gx + ux * 50, gy + uy * 50, 55), n = o.count || 3;
+          if (ground) { land(o, t, 14); for (let k = 0; k < n; k++) shockAt(c, V, p.x, p.y, T0 + 0.06 + k * 0.14, t, 1.0);
+            if (t > T0 + 0.08) along(c, 'wthrust_0', ...P(gx + ux * 50, gy + uy * 50), ...P(p.x + ux * past * 0.8, p.y + uy * past * 0.8), 0.7 * z, 0.7 * (1 - clamp((t - 1.1) / 0.9)), 0, 1, null); break; }
+          if (t < T0 + 0.06) D(c, 'gflare', X0, Y0, t * 4, (0.25 + 0.45 * gather) * z, (0.25 + 0.45 * gather) * z, Math.min(1, gather * 1.5) * veil(V, X0, Y0));
+          if (t > T0 && t < T0 + 0.75) { const s = clamp((t - T0) / 0.06), pulse = Math.max(...Array.from({ length: n }, (_, k) => Math.max(0, 1 - Math.abs(t - T0 - 0.06 - k * 0.14) / 0.07))), C = W.cell('glance'), len = Math.hypot(XE - X0, YE - Y0), rot = Math.atan2(YE - Y0, XE - X0);
+            along(c, 'glance', XS, YS, XE, YE, (0.75 + 0.35 * pulse) * z, 1 - clamp((t - T0 - 0.5) / 0.25), 0, s, V); }
+          for (let k = 0; k < n; k++) { const s2 = t - T0 - 0.06 - k * 0.14; if (s2 > 0 && s2 < 0.3) D(c, 'gflare', XT, YT, d + k, (0.6 + 0.5 * ease(s2 / 0.3)) * z, (0.6 + 0.5 * ease(s2 / 0.3)) * z, (1 - s2 / 0.3) * veil(V, XT, YT)); }
           break; }
       } } GCL = null; }
   function squads(f) { const as = G && G.allies; if (!as) return; const sq = {}; for (const a of as) { if (a.kind === 'general' || a.state === 'dead' || a.state === 'away') continue; const q = sq[a.kind] || (sq[a.kind] = [0, 0, 0]); q[0]++; q[1] += a.x; q[2] += a.y; } for (const k in sq) { const q = sq[k]; f(q[1] / q[0], q[2] / q[0]); } }
@@ -294,7 +312,7 @@ export function createGods(ctx, W = createWonders(), { ink = null, kick = () => 
         if (layer === 'ground') { W.draw(c, 'whalo_gold', X, Y, clock * 0.4, (r / 190) * z, (r / 190) * z * V.KY, 0.35); continue; }
         W.draw(c, 'wcloud_0', X, Y - 170 * z, Math.sin(clock) * 0.04, (r / 260) * z, (r / 300) * z, 0.75 * veil(V, X, Y - 170 * z));
         const ph = clock * 3.1 + zn.id, slot = Math.floor(ph), q = ph - slot; if (q < 0.25) { const h1 = Math.sin(slot * 12.9 + zn.id) * 43758.5, b = (h1 - Math.floor(h1)) * TAU, [XB, YB] = [V.sx(zn.x + Math.cos(b) * r * 0.6), V.sy(zn.y + Math.sin(b) * r * 0.4)]; W.draw(c, `wbolt_${slot % 2}`, XB, YB, 0, 0.45 * z, 0.45 * z, (1 - q / 0.25) * veil(V, XB, YB - 80 * z)); } }
-      else if (zn.kind === 'hold' && zn.src === 'tuxingsun' && layer === 'ground') { const a = clamp((zn.t || 0) / 0.2) * clamp(((zn.life || 2.5) - (zn.t || 0)) / 0.4); for (let k = 0; k < 3; k++) { const b = (k / 3) * TAU + zn.id; along(c, `wcrack_${k % 2}`, V.sx(zn.x), V.sy(zn.y), V.sx(zn.x + Math.cos(b) * zn.r), V.sy(zn.y + Math.sin(b) * zn.r), 0.38 * z, a * 0.7, 0, 1, null); } } } }
+      else if (false && zn.kind === 'hold' && zn.src === 'tuxingsun' && layer === 'ground')      /* (the chasm of the feat is his held ground now) */ { const a = clamp((zn.t || 0) / 0.2) * clamp(((zn.life || 2.5) - (zn.t || 0)) / 0.4); for (let k = 0; k < 3; k++) { const b = (k / 3) * TAU + zn.id; along(c, `wcrack_${k % 2}`, V.sx(zn.x), V.sy(zn.y), V.sx(zn.x + Math.cos(b) * zn.r), V.sy(zn.y + Math.sin(b) * zn.r), 0.38 * z, a * 0.7, 0, 1, null); } } } }
 
   return {
     onEvent, owns,

diff --git a/world/src/muye2/art/render/glctx.js b/world/src/muye2/art/render/glctx.js
@@ -98,7 +98,7 @@ export function createGL2D(canvas, { antialias = false, units = UNITS, software 
     gl.texParameteri(gl.TEXTURE_2D, gl.TEXTURE_WRAP_S, gl.CLAMP_TO_EDGE); gl.texParameteri(gl.TEXTURE_2D, gl.TEXTURE_WRAP_T, gl.CLAMP_TO_EDGE);
     if (src === scratch) { scratch.width = scratch.height = 1; }
     const bytes = Math.round(w * h * 4 * (mip ? 4 / 3 : 1)); stats.textureBytes += bytes - (rec.bytes || 0); rec.bytes = bytes; rec.w = w; rec.h = h; rec.iw = 1 / w; rec.ih = 1 / h;
-    stats.uploads++; stats.uploadMs += performance.now() - t0; (stats.list || (stats.list = [])).push([img.constructor.name, w, h]);
+    const ms = performance.now() - t0; stats.uploads++; stats.uploadMs += ms; (stats.list || (stats.list = [])).push([img.constructor.name, w, h, Math.round(t0), +ms.toFixed(1)]);      // (when and how long: the first-use stall hunt, round 17)
   }
   function texture(img) {
     let rec = texOf.get(img);
@@ -282,7 +282,7 @@ export function createGL2D(canvas, { antialias = false, units = UNITS, software 
     flush() { flush('end'); },
     /** upload an image now (when a loader has it, between frames), not on its first draw in the middle of a fight: a large
      *  ImageBitmap's first upload measured 26 to 265 ms in the real page (render spike, Round 7). No-op when lost. */
-    prewarm(img) { if (lost || !img || !img.width) return; flush('prewarm'); texture(img); },
+    prewarm(img) { if (lost || !img || !img.width) return; flush('prewarm'); texture(img); if (globalThis.__glStats) globalThis.__glPrewarm = (im) => { const t0 = performance.now(); flush('prewarm'); texture(im); gl.finish(); return performance.now() - t0; }; },      // (__glPrewarm: bench runs only, the upload timing in the game's own context)
     /** run f once this frame's drawing has been flushed (offscreen passes: the ink's simulation) */
     afterFrame(f) { afterQ.push(f); if (!scheduled) frameStart(); },
     /** draw into a framebuffer (null: the canvas). The y axis is flipped for a framebuffer so its texture reads upright. */
